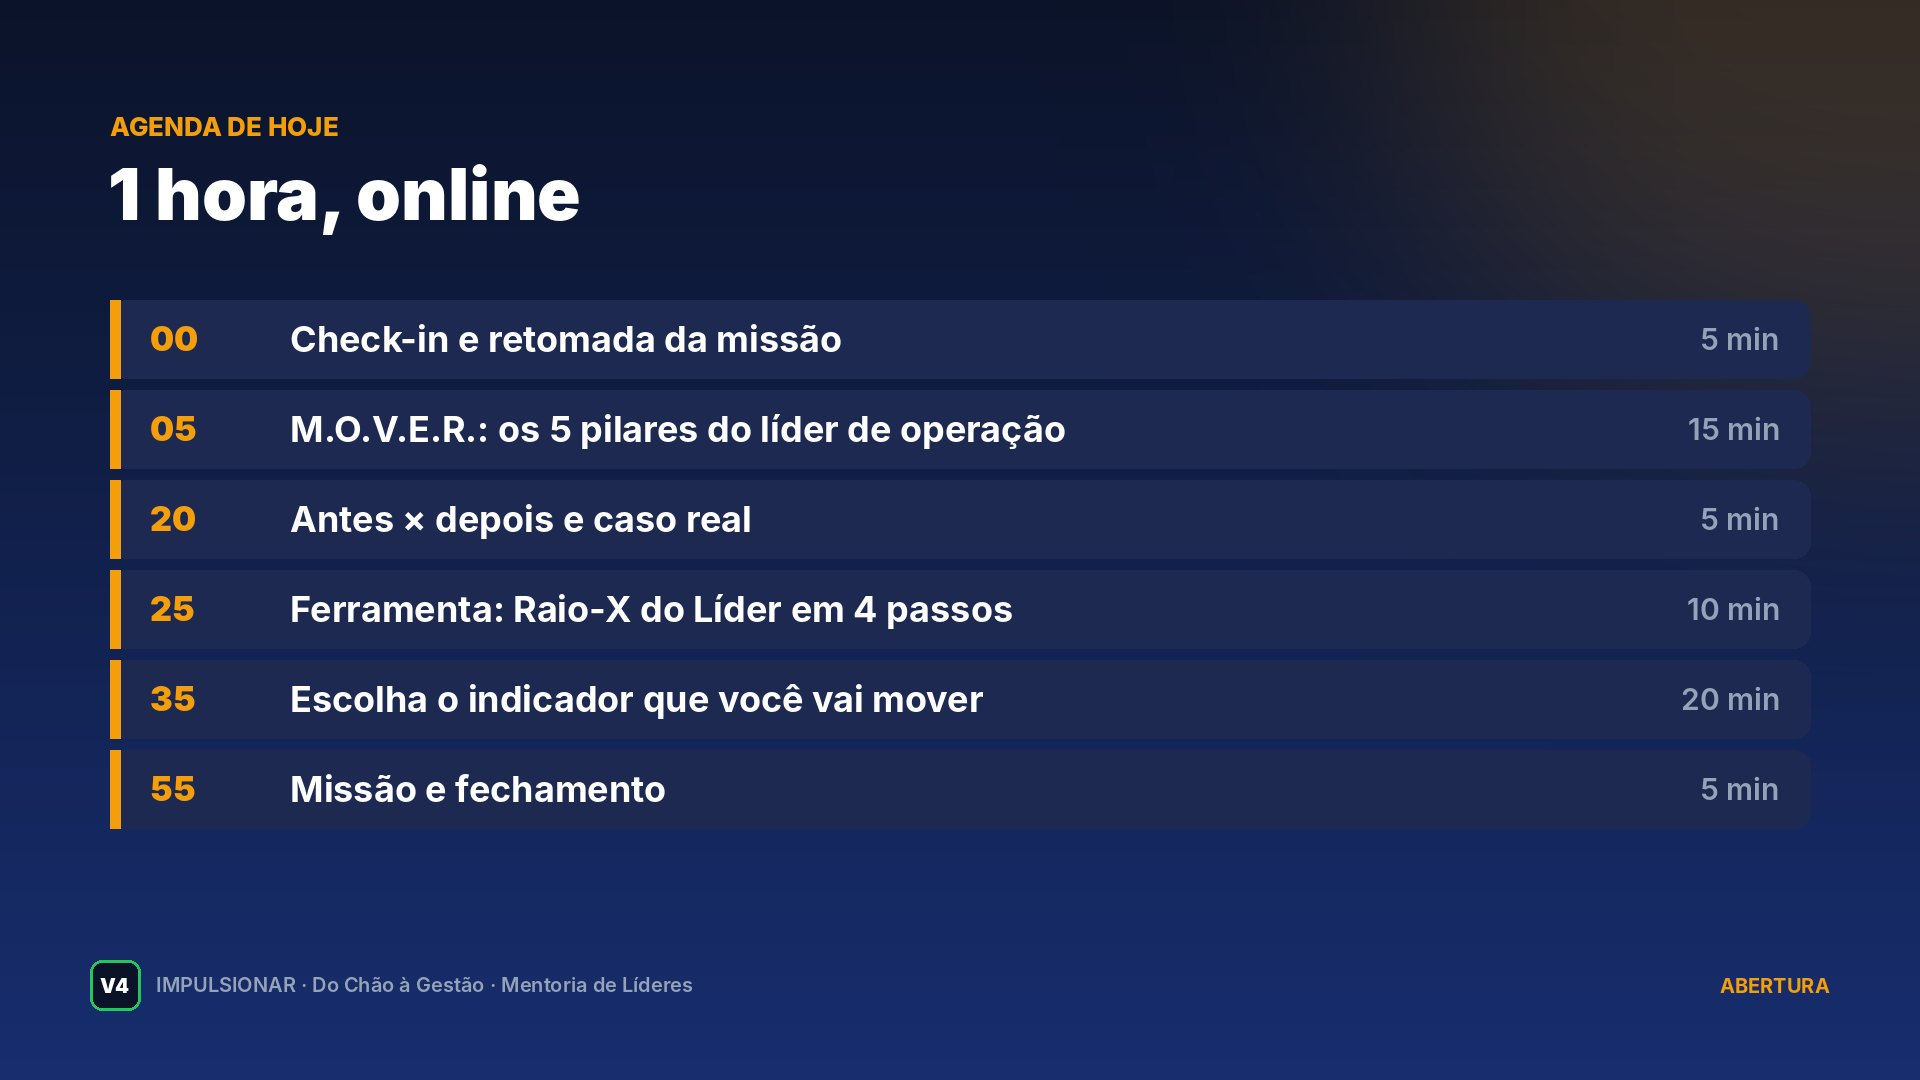
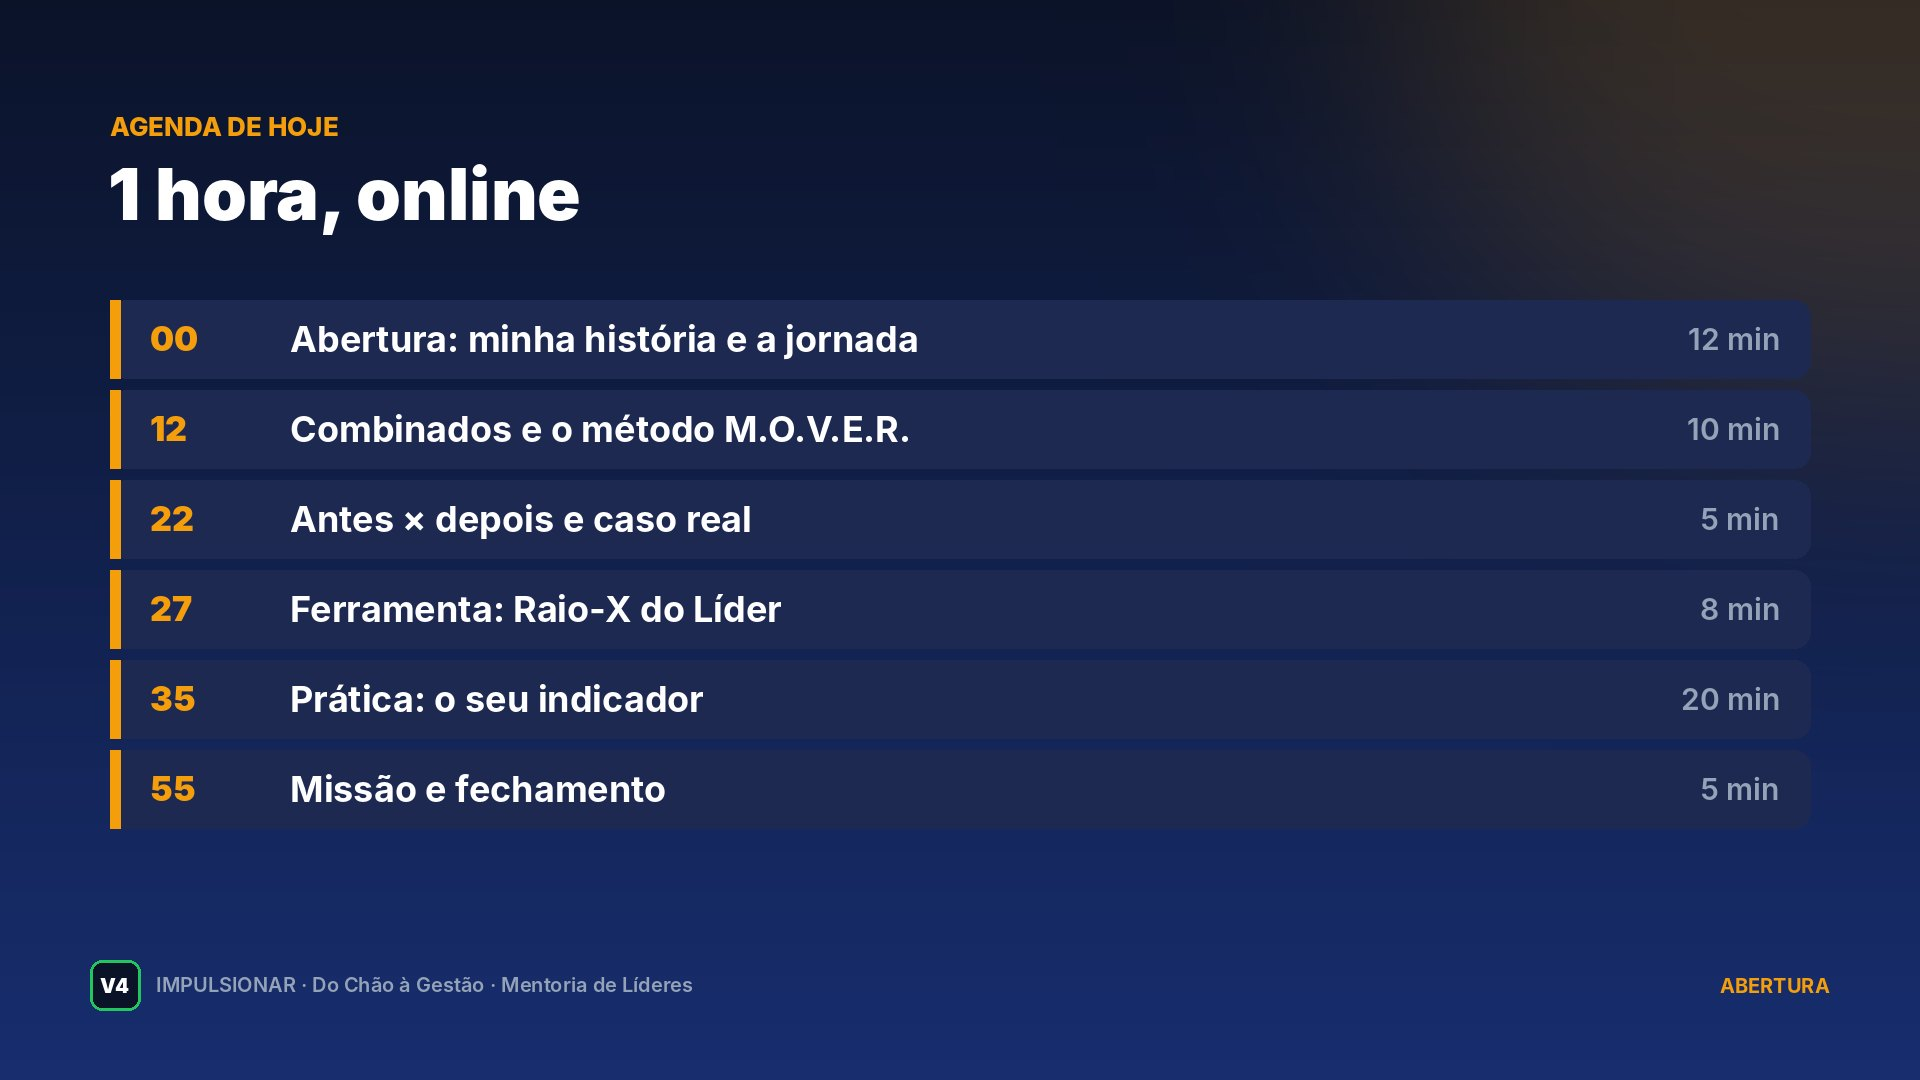
ok

diff --git a/server.js b/server.js
@@ -9854,7 +9854,7 @@ function deckDesenhadoCiMt(n, presenca, base, lista, ext, pasta) {
     const guia = g => [g.objetivo && '🎯 OBJETIVO: ' + g.objetivo, g.onde && '📍 ONDE FICAR: ' + g.onde, g.fale && '🗣 FALE: "' + g.fale + '"', g.faca && g.faca.length ? '🎬 FAÇA:\n' + g.faca.map(x => '• ' + x).join('\n') : '', g.pergunte && '❓ PERGUNTE: "' + g.pergunte + '"', g.tempo && '⏱ TEMPO: ' + g.tempo].filter(Boolean).join('\n');
     const arq = a => pasta ? `${pasta}/${a}` : a.includes('/') || a.startsWith('ci-') ? a : `e${n}/${a}`;
     const mods = D.map(([titulo, ss]) => ({ titulo, tipo: 'slides', slides: ss.map(([a, t, g]) => ({ titulo: t, texto: '', notas: guia(g), layout: 'imagem', imagem: `${raiz}/slides-mentoria/${arq(a)}.${ext || 'png'}?v=1` })) }));
-    mods[0].slides.unshift({ titulo: '', texto: '', layout: 'imagem', imagem: raiz + '/mentoria-palestrante.jpg?v=4', notas: guia({ objetivo: 'Abrir com presença.', onde: 'Centro da sala, de frente, sem nada nas mãos.', fale: `Boa noite, turma! Bem-vindos ao Encontro ${n}${pasta ? ' de 19' : ''}.`, faca: ['Sorria e olhe para 3 pessoas diferentes'], tempo: '20 s' }) });
+    if (!(pasta && n === 1)) mods[0].slides.unshift({ titulo: '', texto: '', layout: 'imagem', imagem: raiz + (pasta ? `/slides-mentoria/${pasta}/${pasta}-palestrante.jpg?v=1` : '/mentoria-palestrante.jpg?v=4'), notas: guia({ objetivo: 'Abrir com presença.', onde: 'Centro da sala, de frente, sem nada nas mãos.', fale: `Boa noite, turma! Bem-vindos ao Encontro ${n}${pasta ? ' de 19' : ''}.`, faca: ['Sorria e olhe para 3 pessoas diferentes'], tempo: '20 s' }) });
     const fim = mods[mods.length - 1].slides;
     if (presenca) fim.splice(fim.length - 1, 0, { titulo: 'Registre sua presença', texto: ['Abra a câmera do celular', 'Aponte para o QR code', 'Toque em Confirmar presença'].map((x, i) => `• Passo ${i + 1} · ${x}`).join('\n'), layout: 'padrao', imagem: 'https://api.qrserver.com/v1/create-qr-code/?size=500x500&margin=8&data=' + encodeURIComponent(presenca.link), imgTam: 11, notas: guia({ objetivo: 'Registrar a presença.', onde: 'Ao lado da tela.', faca: ['Deixe o QR até todos registrarem'], tempo: '1 min' }) });
     return mods;
